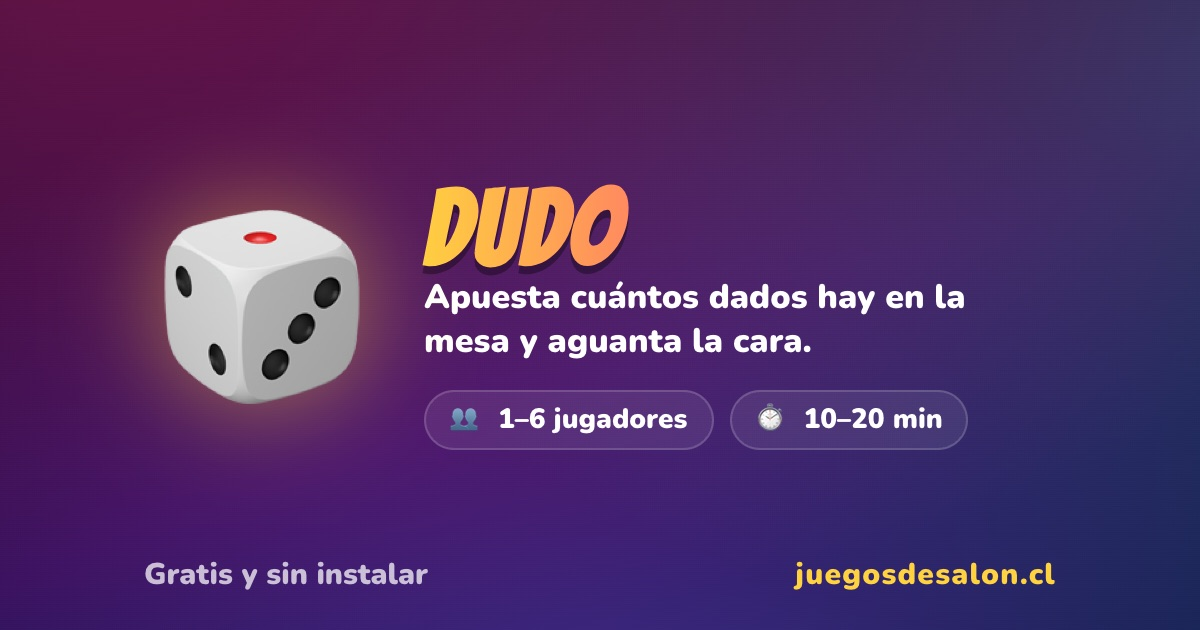
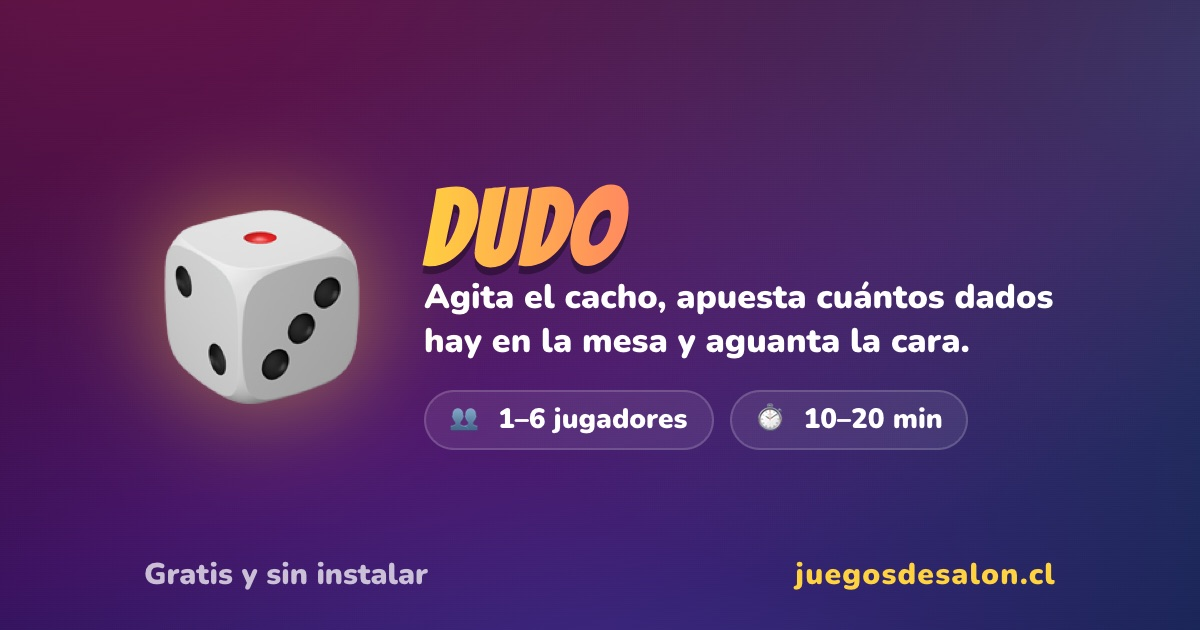
Dudo: the tagline names the shake, and the opener is not told to bid before rolling
The usability pass of D-447 left both for the owner, who said yes: the
tagline in the four languages now starts with shaking the cup (home page,
the game's page and its link card, redrawn), and while the dice are still to
roll the one who opens reads "Abres tú la ronda." instead of the invitation
to bid.

Changed region(s): [[0.3392, 0.4524, 0.8942, 0.573]]

diff --git a/public/dudo/index.html b/public/dudo/index.html
@@ -6,27 +6,27 @@
   <title>Dudo 🎲 · Juegos de Salón</title>
   <!-- Bridge page (D-192): this route moved to /liars-dice/. Generated by node tools/release/og.mjs cards: not edited by hand. -->
   <!-- generated: og · rewritten by node tools/release/og.mjs cards -->
-  <meta name="description" content="Apuesta cuántos dados hay en la mesa y aguanta la cara. 1–6 jugadores, 10–20 min. Gratis, sin instalar y sin cuenta.">
+  <meta name="description" content="Agita el cacho, apuesta cuántos dados hay en la mesa y aguanta la cara. 1–6 jugadores, 10–20 min. Gratis, sin instalar y sin cuenta.">
   <link rel="canonical" href="https://juegosdesalon.cl/liars-dice/">
   <meta property="og:type" content="website">
   <meta property="og:site_name" content="Juegos de Salón">
   <meta property="og:url" content="https://juegosdesalon.cl/liars-dice/">
   <meta property="og:title" content="Dudo 🎲 · Juegos de Salón">
-  <meta property="og:description" content="Apuesta cuántos dados hay en la mesa y aguanta la cara. 1–6 jugadores, 10–20 min. Gratis, sin instalar y sin cuenta.">
+  <meta property="og:description" content="Agita el cacho, apuesta cuántos dados hay en la mesa y aguanta la cara. 1–6 jugadores, 10–20 min. Gratis, sin instalar y sin cuenta.">
   <meta property="og:image" content="https://juegosdesalon.cl/assets/og/dudo.jpg">
   <meta property="og:image:type" content="image/jpeg">
   <meta property="og:image:width" content="1200">
   <meta property="og:image:height" content="630">
-  <meta property="og:image:alt" content="Dudo: Apuesta cuántos dados hay en la mesa y aguanta la cara.">
+  <meta property="og:image:alt" content="Dudo: Agita el cacho, apuesta cuántos dados hay en la mesa y aguanta la cara.">
   <meta property="og:locale" content="es_CL">
   <meta property="og:locale:alternate" content="en_US">
   <meta property="og:locale:alternate" content="pt_BR">
   <meta property="og:locale:alternate" content="de_DE">
   <meta name="twitter:card" content="summary_large_image">
   <meta name="twitter:title" content="Dudo 🎲 · Juegos de Salón">
-  <meta name="twitter:description" content="Apuesta cuántos dados hay en la mesa y aguanta la cara. 1–6 jugadores, 10–20 min. Gratis, sin instalar y sin cuenta.">
+  <meta name="twitter:description" content="Agita el cacho, apuesta cuántos dados hay en la mesa y aguanta la cara. 1–6 jugadores, 10–20 min. Gratis, sin instalar y sin cuenta.">
   <meta name="twitter:image" content="https://juegosdesalon.cl/assets/og/dudo.jpg">
-  <meta name="twitter:image:alt" content="Dudo: Apuesta cuántos dados hay en la mesa y aguanta la cara.">
+  <meta name="twitter:image:alt" content="Dudo: Agita el cacho, apuesta cuántos dados hay en la mesa y aguanta la cara.">
   <!-- /generated -->
   <script>try { if (sessionStorage.getItem('juegos-de-salon:ref') === null) sessionStorage.setItem('juegos-de-salon:ref', document.referrer); } catch (e) {} location.replace('../liars-dice/' + location.search + location.hash);</script>
   <noscript><meta http-equiv="refresh" content="0; url=../liars-dice/"></noscript>

diff --git a/public/liars-dice/index.html b/public/liars-dice/index.html
@@ -26,27 +26,27 @@
     })();
   </script>
   <!-- generated: og · rewritten by node tools/release/og.mjs cards -->
-  <meta name="description" content="Apuesta cuántos dados hay en la mesa y aguanta la cara. 1–6 jugadores, 10–20 min. Gratis, sin instalar y sin cuenta.">
+  <meta name="description" content="Agita el cacho, apuesta cuántos dados hay en la mesa y aguanta la cara. 1–6 jugadores, 10–20 min. Gratis, sin instalar y sin cuenta.">
   <link rel="canonical" href="https://juegosdesalon.cl/liars-dice/">
   <meta property="og:type" content="website">
   <meta property="og:site_name" content="Juegos de Salón">
   <meta property="og:url" content="https://juegosdesalon.cl/liars-dice/">
   <meta property="og:title" content="Dudo 🎲 · Juegos de Salón">
-  <meta property="og:description" content="Apuesta cuántos dados hay en la mesa y aguanta la cara. 1–6 jugadores, 10–20 min. Gratis, sin instalar y sin cuenta.">
+  <meta property="og:description" content="Agita el cacho, apuesta cuántos dados hay en la mesa y aguanta la cara. 1–6 jugadores, 10–20 min. Gratis, sin instalar y sin cuenta.">
   <meta property="og:image" content="https://juegosdesalon.cl/assets/og/dudo.jpg">
   <meta property="og:image:type" content="image/jpeg">
   <meta property="og:image:width" content="1200">
   <meta property="og:image:height" content="630">
-  <meta property="og:image:alt" content="Dudo: Apuesta cuántos dados hay en la mesa y aguanta la cara.">
+  <meta property="og:image:alt" content="Dudo: Agita el cacho, apuesta cuántos dados hay en la mesa y aguanta la cara.">
   <meta property="og:locale" content="es_CL">
   <meta property="og:locale:alternate" content="en_US">
   <meta property="og:locale:alternate" content="pt_BR">
   <meta property="og:locale:alternate" content="de_DE">
   <meta name="twitter:card" content="summary_large_image">
   <meta name="twitter:title" content="Dudo 🎲 · Juegos de Salón">
-  <meta name="twitter:description" content="Apuesta cuántos dados hay en la mesa y aguanta la cara. 1–6 jugadores, 10–20 min. Gratis, sin instalar y sin cuenta.">
+  <meta name="twitter:description" content="Agita el cacho, apuesta cuántos dados hay en la mesa y aguanta la cara. 1–6 jugadores, 10–20 min. Gratis, sin instalar y sin cuenta.">
   <meta name="twitter:image" content="https://juegosdesalon.cl/assets/og/dudo.jpg">
-  <meta name="twitter:image:alt" content="Dudo: Apuesta cuántos dados hay en la mesa y aguanta la cara.">
+  <meta name="twitter:image:alt" content="Dudo: Agita el cacho, apuesta cuántos dados hay en la mesa y aguanta la cara.">
   <!-- /generated -->
   <link rel="manifest" href="../manifest.webmanifest">
   <script>

diff --git a/public/liars-dice/rules.js b/public/liars-dice/rules.js
@@ -89,7 +89,7 @@ const ES = {
     tableDice: '{n} dados en la mesa',
     yourDice: 'Tus dados', turnOf: 'Le toca a', yourTurn: '¡Te toca!',
     aceWild: 'Los ases son comodín',
-    opens: 'Abres la ronda: apuesta lo que quieras.', opensOther: '{name} abre la ronda.',
+    opens: 'Abres la ronda: apuesta lo que quieras.', opensRoll: 'Abres tú la ronda.', opensOther: '{name} abre la ronda.',
     standing: '{name} dijo', standingYou: 'Dijiste',
     pickPinta: 'Elige la pinta', pickAmount: '¿Cuántos hay en la mesa?',
     bidDo: 'Apuesto {n} {pinta}', bidNothing: 'Apostar', dudoDo: '¡Dudo!', calzaDo: '¡Calzo!',
@@ -179,7 +179,7 @@ const EN = {
     tableDice: '{n} dice on the table',
     yourDice: 'Your dice', turnOf: 'It\'s on', yourTurn: 'Your turn!',
     aceWild: 'Aces are wild',
-    opens: 'You open the round: bid whatever you like.', opensOther: '{name} opens the round.',
+    opens: 'You open the round: bid whatever you like.', opensRoll: 'You open the round.', opensOther: '{name} opens the round.',
     standing: '{name} said', standingYou: 'You said',
     pickPinta: 'Pick the face', pickAmount: 'How many on the table?',
     bidDo: 'Bid {n} {pinta}', bidNothing: 'Bid', dudoDo: 'Liar!', calzaDo: 'Spot on!',
@@ -265,7 +265,7 @@ const PT = {
     tableDice: '{n} dados na mesa',
     yourDice: 'Seus dados', turnOf: 'É a vez de', yourTurn: 'É a sua vez!',
     aceWild: 'Os ases são curinga',
-    opens: 'Você abre a rodada: aposte o que quiser.', opensOther: '{name} abre a rodada.',
+    opens: 'Você abre a rodada: aposte o que quiser.', opensRoll: 'Você abre a rodada.', opensOther: '{name} abre a rodada.',
     standing: '{name} falou', standingYou: 'Você falou',
     pickPinta: 'Escolha a face', pickAmount: 'Quantos tem na mesa?',
     bidDo: 'Aposto {n} {pinta}', bidNothing: 'Apostar', dudoDo: 'Duvido!', calzaDo: 'Cravo!',
@@ -352,7 +352,7 @@ const DE = {
     tableDice: '{n} Würfel auf dem Tisch',
     yourDice: 'Deine Würfel', turnOf: 'Dran ist', yourTurn: 'Du bist dran!',
     aceWild: 'Asse sind Joker',
-    opens: 'Du eröffnest die Runde: Wette, was du willst.', opensOther: '{name} eröffnet die Runde.',
+    opens: 'Du eröffnest die Runde: Wette, was du willst.', opensRoll: 'Du eröffnest die Runde.', opensOther: '{name} eröffnet die Runde.',
     standing: '{name} sagte', standingYou: 'Du sagtest',
     pickPinta: 'Wähle die Zahl', pickAmount: 'Wie viele liegen da?',
     bidDo: 'Ich sage {n} {pinta}', bidNothing: 'Wetten', dudoDo: 'Zweifeln!', calzaDo: 'Genau!',

diff --git a/public/assets/js/games.js b/public/assets/js/games.js
@@ -70,7 +70,7 @@ export const GAMES = [
     tipos: ['tabletop'],
     emoji: '🎲',
     name: { es: 'Dudo', en: 'Liar\'s Dice', pt: 'Dado Mentiroso', de: 'Lügenwürfel' },
-    tagline: { es: 'Apuesta cuántos dados hay en la mesa y aguanta la cara.', en: 'Bid how many dice are on the table and keep a straight face.', pt: 'Aposte quantos dados tem na mesa sem entregar o jogo.', de: 'Wette, wie viele Würfel auf dem Tisch liegen, und verzieh keine Miene.' },
+    tagline: { es: 'Agita el cacho, apuesta cuántos dados hay en la mesa y aguanta la cara.', en: 'Shake the cup, bid how many dice are on the table and keep a straight face.', pt: 'Sacuda o copo, aposte quantos dados tem na mesa sem entregar o jogo.', de: 'Schüttle den Becher, wette auf die Würfel am Tisch und verzieh keine Miene.' },
     players: '1–6',
     duration: '10–20',
     jugadas: ['bid', 'dudo', 'calza'],

diff --git a/public/liars-dice/game.js b/public/liars-dice/game.js
@@ -354,7 +354,9 @@ function renderPlay(v) {
   } else {
     // The invitation to bid is for the one who opens; the rest of the room is told who does
     const abre = v.current || v.opener;
-    board.append(el('div', { class: 'standing opens' }, abre === yo ? T.opens : fmt(T.opensOther, { name: nameOf(abre) })));
+    // With the dice still to roll, "bid whatever you like" came before you could: first the shake (D-447)
+    const tuyo = tapados ? T.opensRoll : T.opens;
+    board.append(el('div', { class: 'standing opens' }, abre === yo ? tuyo : fmt(T.opensOther, { name: nameOf(abre) })));
   }
 
   renderActions(v, yo, miTurno, tapados);

diff --git a/changelog/liars-dice-tagline.md b/changelog/liars-dice-tagline.md
@@ -1,0 +1,4 @@
+level: patch
+
+- **🎲 Dudo's tagline names the shake:** "Agita el cacho, apuesta cuántos dados hay en la mesa y aguanta la cara." (and "Shake the cup…", "Sacuda o copo…", "Schüttle den Becher…"), on the home page, its own page and its link card.
+- **While your dice are still to roll, the round no longer tells you to bid:** whoever opens it reads "Abres tú la ronda." until the dice are out, and then "Abres la ronda: apuesta lo que quieras.", as before.
